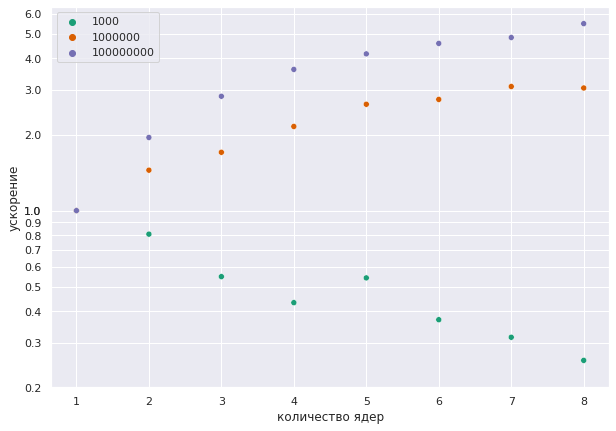
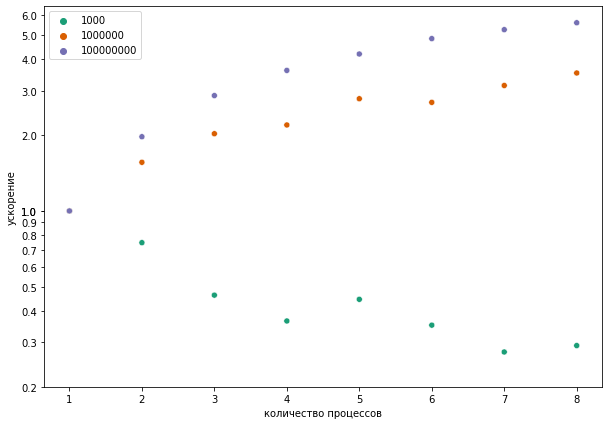
update readme

diff --git a/report.md b/report.md
@@ -14,6 +14,12 @@ print(python_version())
 !mkdir -p build && cd build && cmake .. && make
 ```
 
+    -- Configuring done
+    -- Generating done
+    -- Build files have been written to: /home/galqiwi/current_tasks/mpi-integration/build
+    [35m[1mConsolidate compiler generated dependencies of target mpi-integration[0m
+    [100%] Built target mpi-integration
+
 
 Запустим файл для того, чтобы посмотреть на формат вывода
 
@@ -149,10 +155,89 @@ for n, p, measurement_id in itertools.product([10 ** 3, 10 ** 6, 10 ** 8], range
     benchmarks.add_benchmark(n, p)
 ```
 
-У нас получилось набрать статистику.
+У нас получилось набрать статистику
 
 
-Теперь построим график и увидим, что при малых $N$ ($10^4$), при увеличении количества исполнителей, время только увеличивается, а при больших ($10^6-10^8$) значениях наблюдается эффект, который заключается в том, что, чем больше $N$, тем лучше распараллеливается наш алгоритм.
+```python
+benchmarks.speedup_data.sample(n=5)
+```
+
+
+
+
+<div>
+<style scoped>
+    .dataframe tbody tr th:only-of-type {
+        vertical-align: middle;
+    }
+
+    .dataframe tbody tr th {
+        vertical-align: top;
+    }
+
+    .dataframe thead th {
+        text-align: right;
+    }
+</style>
+<table border="1" class="dataframe">
+  <thead>
+    <tr style="text-align: right;">
+      <th></th>
+      <th>n</th>
+      <th>p</th>
+      <th>time</th>
+      <th>time_min</th>
+      <th>speedup</th>
+    </tr>
+  </thead>
+  <tbody>
+    <tr>
+      <th>3</th>
+      <td>1000</td>
+      <td>4</td>
+      <td>0.000118</td>
+      <td>0.000043</td>
+      <td>0.365298</td>
+    </tr>
+    <tr>
+      <th>6</th>
+      <td>1000</td>
+      <td>7</td>
+      <td>0.000156</td>
+      <td>0.000043</td>
+      <td>0.275046</td>
+    </tr>
+    <tr>
+      <th>19</th>
+      <td>100000000</td>
+      <td>4</td>
+      <td>0.399812</td>
+      <td>1.446579</td>
+      <td>3.618147</td>
+    </tr>
+    <tr>
+      <th>15</th>
+      <td>1000000</td>
+      <td>8</td>
+      <td>0.00481</td>
+      <td>0.016999</td>
+      <td>3.534338</td>
+    </tr>
+    <tr>
+      <th>2</th>
+      <td>1000</td>
+      <td>3</td>
+      <td>0.000093</td>
+      <td>0.000043</td>
+      <td>0.46274</td>
+    </tr>
+  </tbody>
+</table>
+</div>
+
+
+
+Теперь построим график и увидем, что при малых $N$ ($10^4$) при увеличении количества исполнителей, время только увеличивается, а при больших ($10^6-10^8$) значениях наблюдается эффект, который заключается в том, что, чем больше $N$, тем лучше распараллеливается наш алгоритм.
 
 
 ```python
@@ -176,6 +261,6 @@ plt.show()
 
 
     
-![png](images/plot.png)
+![png](report_files/report_19_0.png)
     
 
